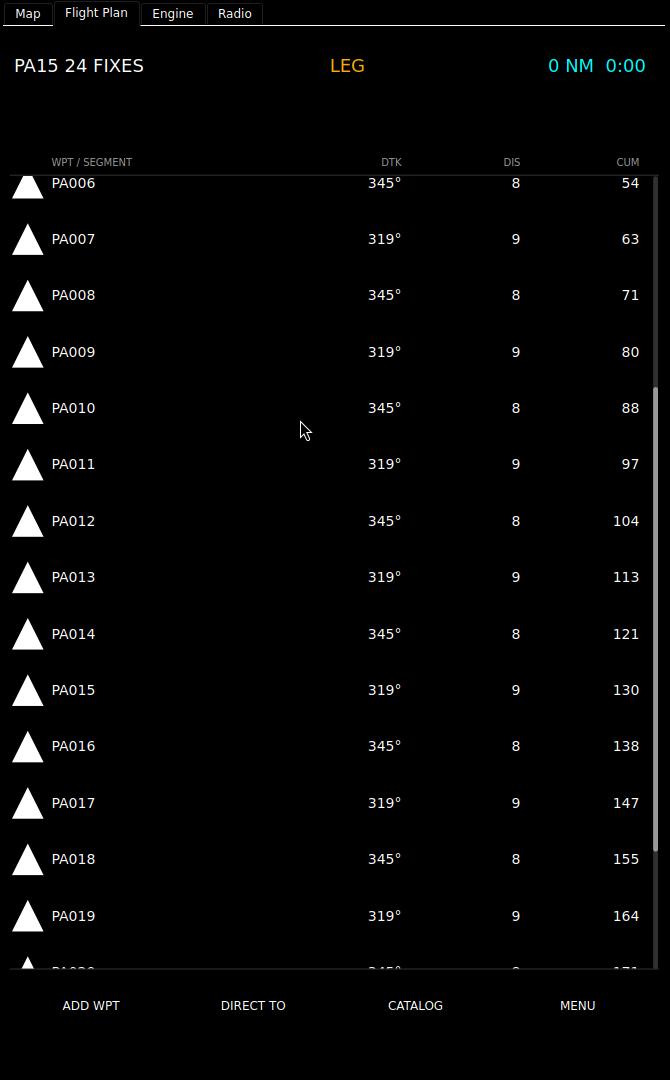
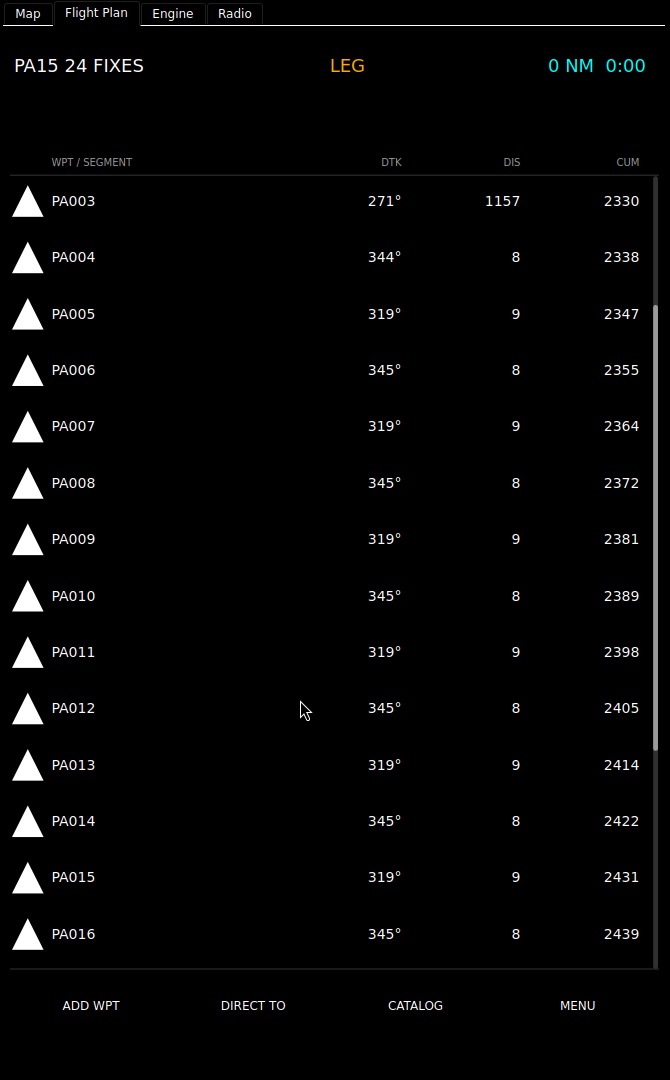
docs: PA15 bench frames recaptured on f7b39d4, plus repaint latency A/B (AER-2087)

diff --git a/docs/images/pa15_scroll/README.md b/docs/images/pa15_scroll/README.md
@@ -2,43 +2,67 @@
 
 Beelink kiosk (1920x1080, X11/xcb), PFD screen, right-hand tab section on
 its **Flight Plan** tab. Each image is the panel cropped at 1:1 from a full
-x11grab (`x = 1250..1920`), so the row geometry is exactly what the glass
-shows at the real tab width.
+x11grab (`x = 1250..1920`), so the row geometry is what the glass shows at
+the real tab width.
 
-Captured 2026-10-31 23:27-23:29Z on pyEfis `2f3a8b2` (this branch before
-`46c3be9`, the drag-anchor fix). `46c3be9` only changes how a drag anchors
-at the threshold. Recapture on the fixed head is tracked on AER-2087.
+Captured 2026-11-01 03:09:59-03:10:24Z on pyEfis **`f7b39d4`** (this branch
+with `dev` merged). `provenance.txt` holds the checkout SHA and pyEfis PID
+read at the start and end of the run. They match, so no other agent restaged
+the bench mid-run, which happened twice on this shared box during the session.
+
+The route is a 24-fix test route the driver publishes. Someone else's
+session inserted **KGPM** as the fourth row while it was loaded. That is the
+reason for the 1153 NM leg. It is not part of the test and does not affect it.
 
 | File | What it shows |
 |------|---------------|
-| `1_top.png` | 24-fix route, 14 rows at the physical row height, scroll bar on the right edge with the thumb at the top. Active leg (PA001) magenta. |
-| `2_dragged.png` | After a slow drag up 400 px (pointer held 0.6 s before release, so no fling). The list moved about 6.5 rows and the partial top row is clipped under the column header. No row menu opened. |
-| `3_flung_to_end.png` | After a 300 px flick released while moving. The fling carried to the end and stopped there: PA023, the last fix, is the bottom row and the thumb is at the bottom. |
-| `4_tap_opens_row_menu.png` | A plain tap on a row still opens its row menu. |
-| `strip.png` | The four side by side. |
+| `1_top.png` | 25 rows, 14 at the physical row height, scroll bar on the right edge with the thumb at the top. Active leg PA001 magenta. |
+| `2_dragged.png` | From the end of the list, a slow 400 px drag down (pointer held 0.6 s, so no fling). The list moved back about 7 rows to PA003. No row was selected. |
+| `3_flung_to_end.png` | A 300 px flick released while moving. The fling carried to the end and stopped there: PA023 is the bottom row and the thumb is at the bottom. |
+| `4_dragged_after_tab_switch.png` | Map tab, back to Flight Plan, then a slow drag. The first drag after a tab switch scrolls too. |
+| `5_tap_opens_row_menu.png` | A plain tap on a row still opens its row menu. |
+| `6_cancel_selects_nothing.png` | Cancel closes it, with nothing selected. |
+| `strip.png` | The six side by side. |
+
+## Repaint latency (measured, and present without PA15)
+
+In `capture.sh`, two frames grabbed 0.8 s after release still showed the
+list where it was **before** that drag. The next frame showed the drag
+applied, so the input was handled and the paint was late. Measured with
+frames at 0.1/0.3/0.6/1.0/2.0 s after each action:
+
+| Build | Action | Late (> 0.1 s) | Worst |
+|-------|--------|----------------|-------|
+| `f7b39d4` (PA15) | 12 slow drags (`drag_latency.sh`) | 3 of 12 | 1.0 s |
+| `f7b39d4` (PA15) | 12 switches back to the Flight Plan tab (`tab_latency.sh`) | 4 of 12 | 1.0 s |
+| `3368282` (`dev` + a map preset, no PA15 code) | the same 12 tab switches | 3 of 12 | 1.0 s |
+
+Switching to the Engine tab was on time 24 of 24 on both builds. In the late
+frames the tab bar already shows Flight Plan selected while the page under it
+is still the Engine page. So the Flight Plan widget's paint is intermittently
+delayed by up to about 1 s on this bench, and that delay exists without the
+PA15 code.
 
 ## How they were made
 
 The route goes on the bus with no sim, and the drags are real X11 pointer
 input (xdotool), which reaches the widget through the same Qt mouse path a
-touchscreen's synthesised mouse events take. Run on the bench, under the
-lock, with `bench_scripts/pa15_bench.py` and
-`../fp8_bench/bench_scripts/nfx.py` side by side in one directory:
+touchscreen's synthesised mouse events take. Run on the bench, with
+`bench_scripts/*` and `../fp8_bench/bench_scripts/nfx.py` in one directory:
 
 ```sh
-P="python3 pa15_bench.py"; D=out
-$P snapshot $D                          # save the bench's route block first
-setsid nohup $P feed 900 >feed.log 2>&1 </dev/null &   # outside the lock
-$P publish $D 24; $P act 2
-xdotool mousemove 1345 14 mousedown 1 sleep 0.15 mouseup 1   # Flight Plan tab
-$P shot $D top
-$P drag 1550 820 420 20 0.02 0.6; $P shot $D dragged     # slow drag, no fling
-$P drag 1550 820 520 6 0.01 0;  sleep 2.5; $P shot $D flung
-$P click 1550 373; $P shot $D tap                        # opens the row menu
-$P restore $D                           # put the bench's route back
+P="python3 pa15_bench.py"; D=out3
+flock -w 300 /tmp/pyefis-bench.lock $P snapshot $D     # save the bench's route
+setsid nohup $P feed 600 >feed.log 2>&1 </dev/null &   # OUTSIDE the lock
+flock -w 300 /tmp/pyefis-bench.lock $P publish $D 24
+flock -w 300 /tmp/pyefis-bench.lock bash capture.sh    # frames above (+ provenance guard)
+flock -w 300 /tmp/pyefis-bench.lock bash drag_latency.sh
+flock -w 300 /tmp/pyefis-bench.lock bash tab_latency.sh
+flock -w 300 /tmp/pyefis-bench.lock $P restore $D      # put the bench's route back
 ```
 
-Do not start the feeder inside `flock ... sh -c`: a background child inherits
+Do not start the feeder inside `flock ... sh -c`. A background child inherits
 the lock's file descriptor and holds the bench lock until it exits.
 
-Crops: `Image.open(f).crop((1250, 0, 1920, 1080))` (PIL).
+Crops: `Image.open(f).crop((1250, 0, 1920, 1080))` (PIL). Latency: compare
+the list region `(0, 180, 640, 960)` of each frame to the last one.
